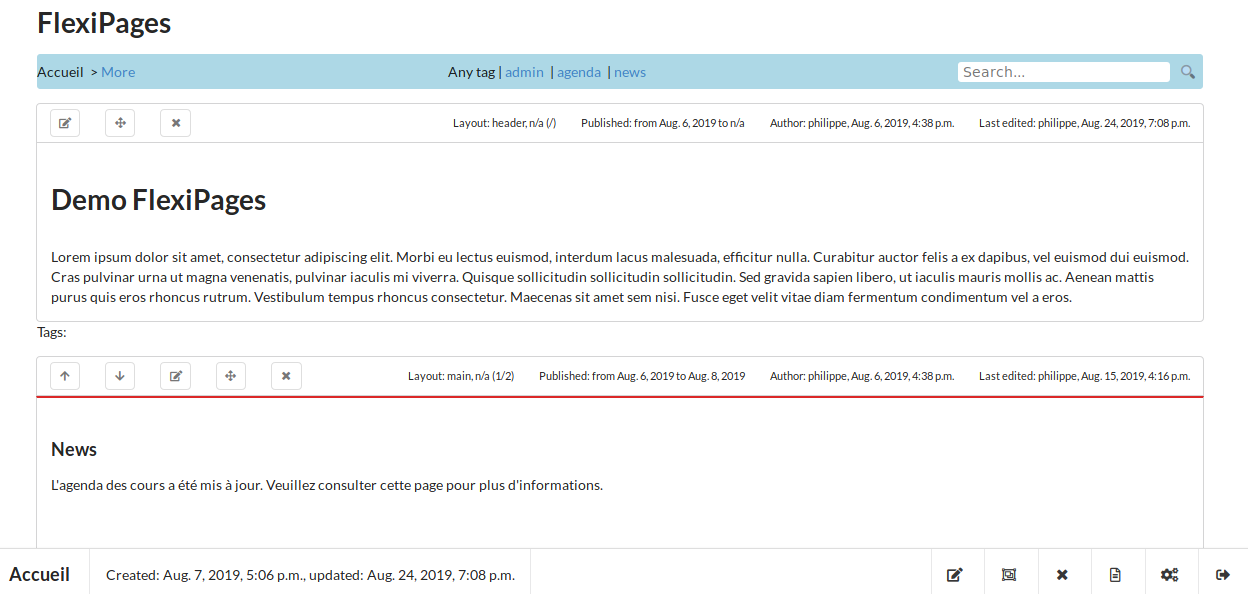
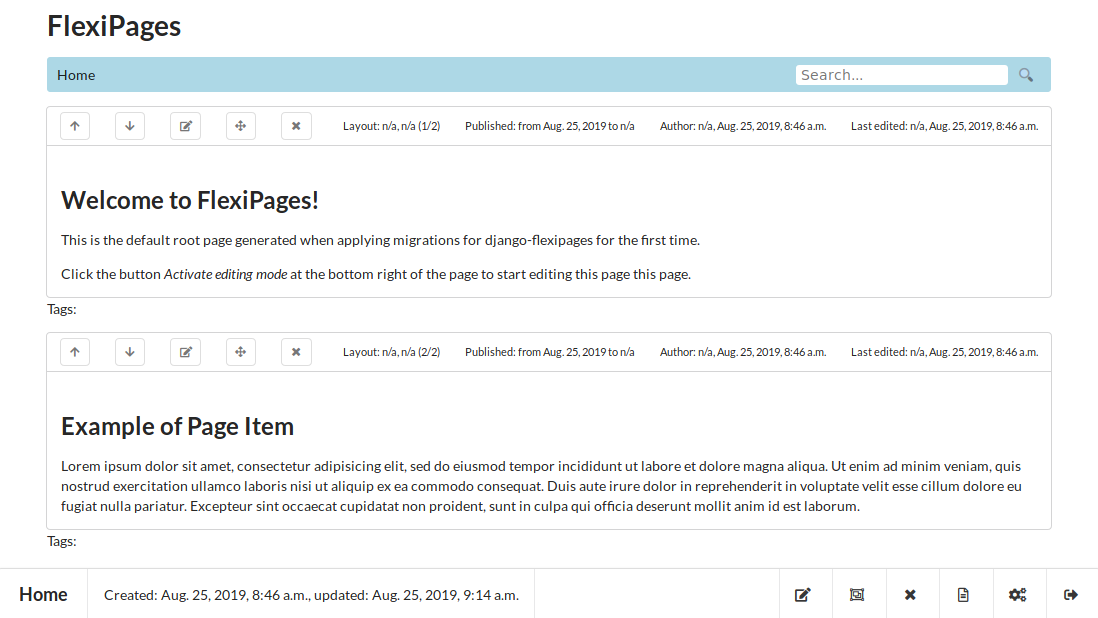
Update documentation.

diff --git a/flexipages/apps.py b/flexipages/apps.py
@@ -43,7 +43,7 @@ def create_flexipages_default_root_page(verbosity, using=DEFAULT_DB_ALIAS, apps=
     if not (router.allow_migrate_model(using, Page) and router.allow_migrate_model(using, PageItem) and router.allow_migrate_model(using, PageItemLayout) and router.allow_migrate_model(using, PageTemplate)):
         return
     template = get_default_base_template_for_page(PageTemplate)
-    page, created = Page.objects.get_or_create(path='/', defaults=dict(template=template, priority=0, title='FlexiPages Home'))
+    page, created = Page.objects.get_or_create(path='/', defaults=dict(template=template, priority=0, title='Home'))
     if created:
         default_site = Site.objects.first()
         page.sites.add(default_site)

diff --git a/README.md b/README.md
@@ -75,6 +75,7 @@ Once the development environment is setup, start the development server:
 Once you have a running server:
 * login into the admin by opening you browser at http://localhost:8000/admin/ (use the same login as the one provided to the `createsuperuser` command above)
 * edit the default site by navigating to http://localhost:8000/admin/sites/site/1/change/, replacing the domain name with `localhost:8000`, and saving the modification 
+* check that everything is working by visiting the default root page http://localhost:8000, which is created when applying the migrations for django-flexipages for the first time
 
 ### Create your Very First Page
 Once you have a running server:
@@ -155,4 +156,26 @@ FLEXIPAGES_CACHES = {
 }
 CACHES.update(FLEXIPAGES_CACHES)
 FLEXIPAGES_PAGES_CACHE_ALIAS = 'flexipages'
+```
+
+In order to catch any path with *FlexiPages*, add `path('', include('flexipages.urls'))` to you root 'urls.py' which could look like this:
+```python
+from django.conf.urls import include
+from django.contrib import admin
+from django.urls import path
+
+urlpatterns = [
+    path('admin/', admin.site.urls),
+    path('', include('flexipages.urls')),
+]
+```
+
+The `admin.site.urls` are mandatory, but you may use an alternative admin site ([see doc](https://docs.djangoproject.com/en/2.2/ref/contrib/admin/#multiple-admin-sites-in-the-same-urlconf)). Please take care of putting the catch-all pattern for *FlexiPages* URLs at the very end of `urlpatterns`.
+
+You may use a path prefix for pages managed by *FlexiPages*:
+```python
+urlpatterns = [
+    # ...
+    path('flexipages', include('flexipages.urls')),
+]
 ```
